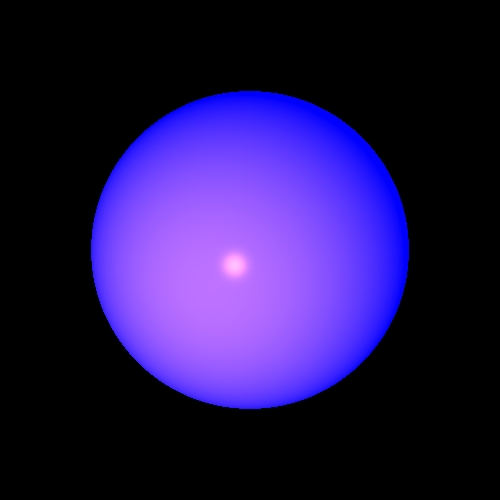
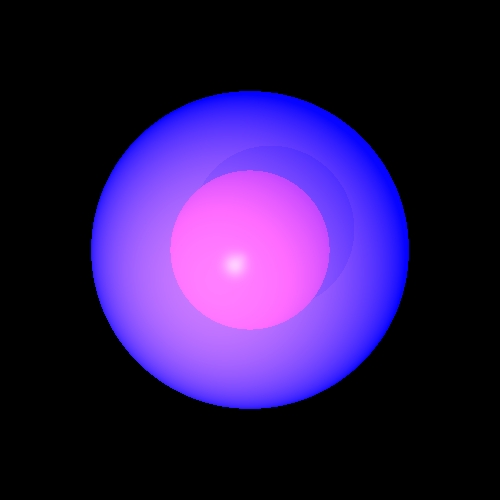
recitation 7 and correcting lecturer's bonus 1

Changed region(s): [[0.33, 0.33, 0.66, 0.66]]

diff --git a/src/renderer/Render.java b/src/renderer/Render.java
@@ -43,15 +43,15 @@ public class Render {
         Vector lightDirection = l.scale(-1); // change direction, from point to lightSource
         Ray lightRay = new Ray(gp._point, lightDirection, n);
         List<GeoPoint> intersections =
-                _scene.getGeometries().findIntersections(lightRay);
+                _scene.getGeometries().findIntersections(lightRay, ls.getDistance(gp._point));
         if (intersections == null) return 1.0;
 
         double ktr = 1.0;
-        for (GeoPoint geoPoint : intersections)
-            if (alignZero(geoPoint._point.distance(gp._point) - ls.getDistance(gp._point)) <= 0) {
-                ktr *= geoPoint._geometry.getMaterial().getKT();
-                if (ktr < MIN_CALC_COLOR_K) return 0.0;
-            }
+        for (GeoPoint geoPoint : intersections) {
+            ktr *= geoPoint._geometry.getMaterial().getKT();
+            if (ktr < MIN_CALC_COLOR_K)
+                return 0.0;
+        }
         return ktr;
     }
 
@@ -68,11 +68,10 @@ public class Render {
         Vector lightDirection = l.scale(-1); // change direction, from point to lightSource
         Ray lightRay = new Ray(gp._point, lightDirection, n);
         List<GeoPoint> intersections =
-                _scene.getGeometries().findIntersections(lightRay);
+                _scene.getGeometries().findIntersections(lightRay, light.getDistance(gp._point));
         if (intersections == null) return true;
         for (GeoPoint geoPoint : intersections)
-            if (alignZero(geoPoint._point.distance(gp._point) - light.getDistance(gp._point)) <= 0
-                    && geoPoint._geometry.getMaterial().getKT() == 0)
+            if (geoPoint._geometry.getMaterial().getKT() == 0)
                 return false;
         return true;
     }
@@ -169,7 +168,7 @@ public class Render {
         double kR = geoPoint._geometry.getMaterial().getKR(), kkr = k * kR;
         if (kkr > MIN_CALC_COLOR_K)
             color = color.add(calcKK(level, kR, kkr, constructReflectedRay(n, geoPoint, inRay)));
-        double kT = geoPoint._geometry.getMaterial().getKR(), kkt = k * kT;
+        double kT = geoPoint._geometry.getMaterial().getKT(), kkt = k * kT;
         if (kkt > MIN_CALC_COLOR_K)
             color = color.add(calcKK(level, kT, kkt, constructRefractedRay(n, geoPoint, inRay)));
         return color;
